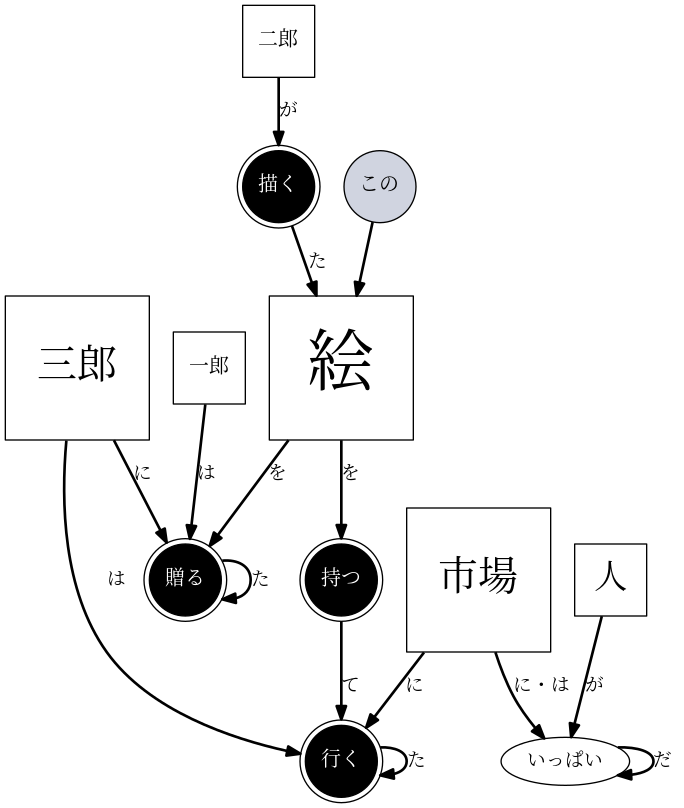
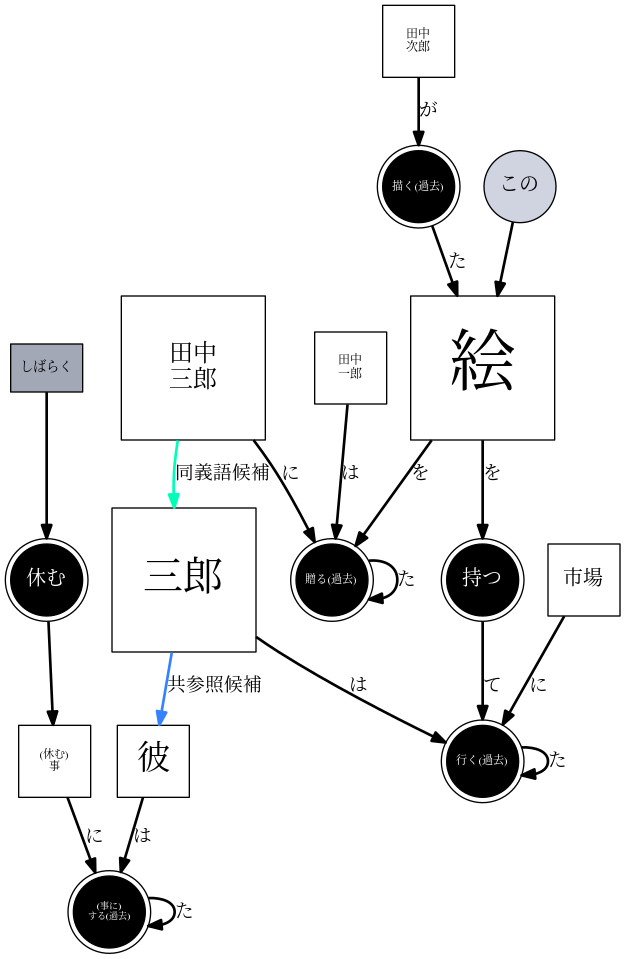
Implementation of primitive coreference resolution.

diff --git a/naruhodo/core/parser.py b/naruhodo/core/parser.py
@@ -6,13 +6,13 @@ from nxpd import draw
 from naruhodo.utils.scraper import NScraper
 from naruhodo.utils.dicts import NEList
 from naruhodo.utils.misc import exportToJsonFile
-from naruhodo.utils.misc import getNodeProperties, getEdgeProperties
+from naruhodo.utils.misc import getNodeProperties, getEdgeProperties, inclusive, harmonicSim
 from naruhodo.core.DependencyCoreJa import DependencyCoreJa
 from naruhodo.core.KnowledgeCoreJa import KnowledgeCoreJa
 
 class parser(object):
     """The general parser for naruhodo."""
-    def __init__(self, lang="ja", gtype="k", mp=False, nproc=0):
+    def __init__(self, lang="ja", gtype="k", mp=False, nproc=0, wv=""):
         """Constructor."""
         self.G = nx.DiGraph()
         """
@@ -73,6 +73,15 @@ class parser(object):
                 self.pool = Pool()
             else:
                 self.pool = Pool(processes=nproc)
+        # load word vectors
+        self.wv = None
+        if wv != "":
+            try:
+                from gensim.models.word2vec import Word2Vec
+                self.wv = Word2Vec.load(wv).wv
+                print("Successfully loaded word vectors from given file: {0}.".format(wv))
+            except ImportError:
+                print("Failed to import gensim, please install it before trying to use word vector related functionalities.")
 
     def _parseToSents(self, context):
         """Parse given context into list of individual sentences."""
@@ -98,6 +107,9 @@ class parser(object):
         """Reset the content of generated graph to empty."""
         self.G.clear()
         self.pos = 0
+        self.entityList = [dict() for x in range(len(NEList))]
+        # self.posEntityList = [dict() for x in range(len(NEList))]
+        self.proList = list()
 
     def _preprocessText(self, text):
         """Get rid of weird parts from the text that interferes analysis."""
@@ -200,6 +212,93 @@ class parser(object):
             ret = self.pool.starmap(self._mergeAll, args)
             ret.append(results[-1])
             return self._reduce(ret)
+
+    def resolve(self):
+        """Resolve coreferences in the given text."""
+        # Get flatten entity list
+        flatEntityList = list()
+        for item in self.entityList:
+            for key in item.keys():
+                flatEntityList.append(key)
+        # Find syntatic synonyms
+        for i in range(len(flatEntityList)):
+            for j in range(i + 1, len(flatEntityList)):
+                A = self._re3.sub("", flatEntityList[i]).replace("\n", "")
+                B = self._re3.sub("", flatEntityList[j]).replace("\n", "")
+                inc = inclusive(A, B)
+                if inc == 1:
+                    self.G.nodes[flatEntityList[i]]['count'] += 1
+                    self.G.add_edge(flatEntityList[i], flatEntityList[j], weight=1, label="同義語候補", type="synonym")
+                elif inc == -1:
+                    self.G.nodes[flatEntityList[j]]['count'] += 1
+                    self.G.add_edge(flatEntityList[j], flatEntityList[i], weight=1, label="同義語候補", type="synonym")
+        # Get position-based entity list
+        self.posEntityList = [dict() for x in range(len(NEList))]
+        for i in range(len(NEList)):
+            for key, val in self.entityList[i].items():
+                for pos in val:
+                    if pos in self.posEntityList[i]:
+                        self.posEntityList[i][pos].append(key)
+                    else:
+                        self.posEntityList[i][pos] = list([key])
+        # Resolve geolocations/persons
+        for pro in self.proList:
+            if pro['type'] == 0:
+                antecedent = self._rresolve(pro['pos'] - 1, 2)
+            elif pro['type'] in [2, 4]:
+                antecedent = self._rresolve(pro['pos'] - 1, 1)
+            elif pro['type'] == 7:
+                if not self.wv:
+                    print("Word vector model is not set correctly. Skipping part of coreference resolution.")
+                    continue
+                else:
+                    antecedent = self._wvResolve(pro['name'], flatEntityList)
+            if antecedent != "":
+                self.G.nodes[antecedent]['count'] += 1
+                self.G.add_edge(antecedent, pro['name'], weight=1, label="共参照候補", type="coref")
+
+    def _rresolve(self, pos, NE):
+        """Recursively resolve to previous position."""
+        if pos == -1:
+            return ""
+        else:
+            if pos in self.posEntityList[NE]:
+                return self.posEntityList[NE][pos][-1]
+            else:
+                return self._rresolve(pos - 1, NE)
+
+    def _wvResolve(self, proname, flatEntityList):
+        """Resolve using word vector similarities."""
+        ret = ""
+        snames = list()
+        svecs = list()
+        sim = 0.
+        for key in self.G.successors(proname):
+            name = self._re3.sub("", key).replace("\n", "")
+            if name in self.wv:
+                snames.append(name)
+                svecs.append(self.wv[name])
+            for key2 in self.G.successors(key):
+                name = self._re3.sub("", key2).replace("\n", "")
+                if name in self.wv:
+                    snames.append(name)
+                    svecs.append(self.wv[name])
+        if len(svecs) > 0:
+            for item in flatEntityList:
+                rawitem = self._re3.sub("", item).replace("\n", "")
+                if rawitem not in snames and rawitem in self.wv:
+                    score = harmonicSim(svecs, self.wv[rawitem])
+                    if sim < score:
+                        sim = score
+                        ret = item
+            if sim > 0.4:
+                return ret
+            else:
+                return ""        
+        else:
+            return ""
+
+
 
     @staticmethod
     def _addMP_ja_d(pos, inp):

diff --git a/naruhodo/core/KnowledgeCoreJa.py b/naruhodo/core/KnowledgeCoreJa.py
@@ -62,7 +62,7 @@ class KnowledgeCoreJa(object):
             self._addChildren(pid, cabo.chunks)
         if self.root_has_no_sub:
             omitted = "省略される主語[{0}@{1}]".format(self.pos, 0)
-            self._addNode(omitted, 0, omitted, 4, 0)
+            self._addNode(omitted, 0, omitted, 7, 0)
             self._addEdge(omitted, self.rootname, label="(省略)", etype="sub")
 
     def _addChildren(self, pid, chunks):
@@ -118,7 +118,7 @@ class KnowledgeCoreJa(object):
         auxlabel = ""
         for i in range(len(parent.children)):
             child = chunks[parent.children[i]]
-            if child.type in [3, 4, 6]: # and child.type2 == -1:
+            if child.type in [3, 4, 5, 6]: # and child.type2 == -1:
                 continue
             # Deal with passive form verb.
             if parent.passive == 1:
@@ -154,7 +154,7 @@ class KnowledgeCoreJa(object):
                 # elif child.func in AuxDict:
                 #     aux.append(child)
                 #     auxlabel += "\n{0}".format(child.surface)
-                elif child.type not in [1, 2]:
+                elif child.type not in [1, 2, 5]:
                     aux.append(child)
                     auxlabel += "\n{0}".format(child.surface)
                 else:
@@ -191,7 +191,7 @@ class KnowledgeCoreJa(object):
             # elif child.func in AuxDict:
             #     aux.append(child)
             #     auxlabel += "\n{0}".format(child.surface)
-            elif child.type not in [1, 2]:
+            elif child.type not in [1, 2, 5]:
                 aux.append(child)
                 auxlabel += "\n{0}".format(child.surface)
             else:
@@ -205,15 +205,15 @@ class KnowledgeCoreJa(object):
             return
         # Entities deemed as nouns.
         if sub:
-            sub.type = 0
+            # sub.type = 0
             if not self.rootsub:
                 self.rootsub = sub
                 self._addNode(sub.main, sub.type, sub.main, sub.pro, sub.NE)
             if self.root_has_no_sub and parent.type == 2 and parent.type2 != 0:
                 self._addEdge(self.rootsub.main, self.rootname, label="主語候補", etype="autosub")
                 self.root_has_no_sub = False
-        if obj:
-            obj.type = 0
+        # if obj:
+        #     obj.type = 0
 
         # Modify parent name with entities.
         if mode == "verb":

diff --git a/naruhodo/backends/cabocha.py b/naruhodo/backends/cabocha.py
@@ -327,8 +327,10 @@ class CaboChunk(object):
                 if item['labels'][0] == '接尾':
                     if item['lemma'] == "れる" or item['lemma'] == "られる":
                         self.passive = 1
+                        self.main += "(受動)"
                     elif item['lemma'] == "させる":
                         self.compulsory = 1
+                        self.main += "(強制)"
                     self.func += item['surface']
                 elif len(self.nouns) > 0 and item['labels'][0] == '自立':
                     self.func += item['surface']
@@ -336,6 +338,7 @@ class CaboChunk(object):
                     self.func += item['surface']
                     if item['lemma'] == "いる":
                         self.tense = 1
+                        self.main += "(現在)"
         if len(self.auxvs) > 0:
             self.func += "・".join([x['surface'] for x in self.auxvs])
             for elem in self.postps:
@@ -362,6 +365,7 @@ class CaboChunk(object):
                 pass
             if any([self.auxvs[x]['lemma'] == "た" for x in range(len(self.auxvs))]):
                 self.tense = -1
+                self.main += "(過去)"
         if len(self.postps) > 0:
             for elem in self.postps:
                 if elem['labels'][0] not in  ["終助詞", "副助詞／並立助詞／終助詞"]:
@@ -395,7 +399,7 @@ class CabochaClient(object):
     def __init__(self):
         """Initialize a native database."""
         self.rsplit = re.compile(r'[,]+|\t')
-        self.re_parentheses = re.compile('\([^)]*\)')
+        self.re_parentheses = re.compile(r'\(.*?\)')
         self.chunks = list()
         self.root = None
         self.npro = 0

diff --git a/naruhodo/utils/misc.py b/naruhodo/utils/misc.py
@@ -2,6 +2,8 @@
 Module for miscellaneous utility functions.
 """
 import json
+from math import sqrt
+import numpy as np
 import networkx as nx
 from naruhodo.utils.dicts import NodeShape2JsonDict, EdgeType2StyleDict, EdgeType2ColorDict
 
@@ -85,4 +87,32 @@ def getEdgeProperties(info):
     ret['weight'] = info['weight']
     ret['style'] = EdgeType2StyleDict[info['type']]
     ret['color'] = EdgeType2ColorDict[info['type']]
-    return ret  
+    return ret
+
+def inclusive(A, B):
+    """Find if one of string A and B includes the other."""
+    if len(A) > len(B):
+        if A.find(B) != -1:
+            ret = 1
+        else:
+            ret = 0
+    elif len(A) < len(B):
+        if B.find(A) != -1:
+            ret = -1
+        else:
+            ret = 0
+    else:
+        ret = 0
+    return ret
+
+def cosSimilarity(A, B):
+    """Compute the cosine similarity between vectors A and B."""
+    return np.dot(A, B) / sqrt(np.dot(A, A) * np.dot(B, B))
+
+def harmonicSim(AG, B):
+    """Return the harmonic distance between a group of vectors AG and vector B."""
+    size = len(AG)
+    ret = 0.
+    for i in range(size):
+        ret += 1. / cosSimilarity(AG[i], B)
+    return float(size) / ret

diff --git a/naruhodo/core/DependencyCoreJa.py b/naruhodo/core/DependencyCoreJa.py
@@ -61,15 +61,16 @@ class DependencyCoreJa(object):
             proid = int(name[bpos+1:-1].split("@")[1])
             self.proList.append(dict(
                 id = proid,
-                name = rep,
+                name = name,
+                rep = rep,
                 type = pro,
                 pos = self.pos
             ))
         elif ntype == 0:
-            if rep in self.entityList[NE] and self.pos not in self.entityList[NE][rep]:
-                self.entityList[NE][rep].append(self.pos)
+            if rep in self.entityList[NE] and self.pos not in self.entityList[NE][name]:
+                self.entityList[NE][name].append(self.pos)
             else:
-                self.entityList[NE][rep] = list([self.pos])
+                self.entityList[NE][name] = list([self.pos])
         # Add to graph.
         if self.G.has_node(name):
             if ntype in [0, 1, 2, 3, 4, 5]:

diff --git a/naruhodo/utils/dicts.py b/naruhodo/utils/dicts.py
@@ -50,7 +50,9 @@ EdgeType2StyleDict = {
     "autosub": "solid",
     "obj": "dashed",
     "aux": "dotted",
-    "cause": "dotted"
+    "cause": "dotted",
+    "coref": "solid",
+    "synonym": "solid"
 }
 """
 Dict to convert the edge type to edge style.
@@ -62,7 +64,9 @@ EdgeType2ColorDict = {
     "autosub": "#aaaaaa",
     "obj": "#000000",
     "aux": "#ff7777",
-    "cause": "#91027e"
+    "cause": "#91027e",
+    "coref": "#3582ff",
+    "synonym": "#00ffb6"
 }
 """
 Dict to convert the edge type to edge color.

diff --git a/README.md b/README.md
@@ -28,9 +28,9 @@ This kind of graph structure is inspired by the way human brains store knowledge
 Below is an example of KSG generated by `naruhodo` using the following texts.
 
 ```
-"一郎は二郎が描いた絵を三郎に贈った。"
+"田中一郎は田中次郎が描いた絵を田中三郎に贈った。"
 "三郎はこの絵を持って市場に行った。"
-"市場には人がいっぱいだ。"
+"彼はしばらく休む事にした。"
 ```
 
 ![KSG generated from texts](img/KSG_example.png)
@@ -45,9 +45,9 @@ The directed linking nature of dependency grammar makes the result of dependency
 Below is an example of DSG generated by naruhodo using the following texts.
 
 ```
-"一郎は二郎が描いた絵を三郎に贈った。"
+"田中一郎は田中次郎が描いた絵を田中三郎に贈った。"
 "三郎はこの絵を持って市場に行った。"
-"市場には人がいっぱいだ。"
+"彼はしばらく休む事にした。"
 ```
 
 ![DSG generated from texts](img/DSG_example.png)

diff --git a/README-ja.md b/README-ja.md
@@ -28,9 +28,9 @@ KSGには主に二種類のノードがあります：
 この図は下記のテキストで生成されたKSGです。
 
 ```
-"一郎は二郎が描いた絵を三郎に贈った。"
+"田中一郎は田中次郎が描いた絵を田中三郎に贈った。"
 "三郎はこの絵を持って市場に行った。"
-"市場には人がいっぱいだ。"
+"彼はしばらく休む事にした。"
 ```
 
 ![KSG generated from texts](img/KSG_example.png)
@@ -44,9 +44,9 @@ KSGには主に二種類のノードがあります：
 この図は下記のテキストで生成されたDSGです。
 
 ```
-"一郎は二郎が描いた絵を三郎に贈った。"
+"田中一郎は田中次郎が描いた絵を田中三郎に贈った。"
 "三郎はこの絵を持って市場に行った。"
-"市場には人が一杯だ。"
+"彼はしばらく休む事にした。"
 ```
 
 ![DSG generated from texts](img/DSG_example.png)
